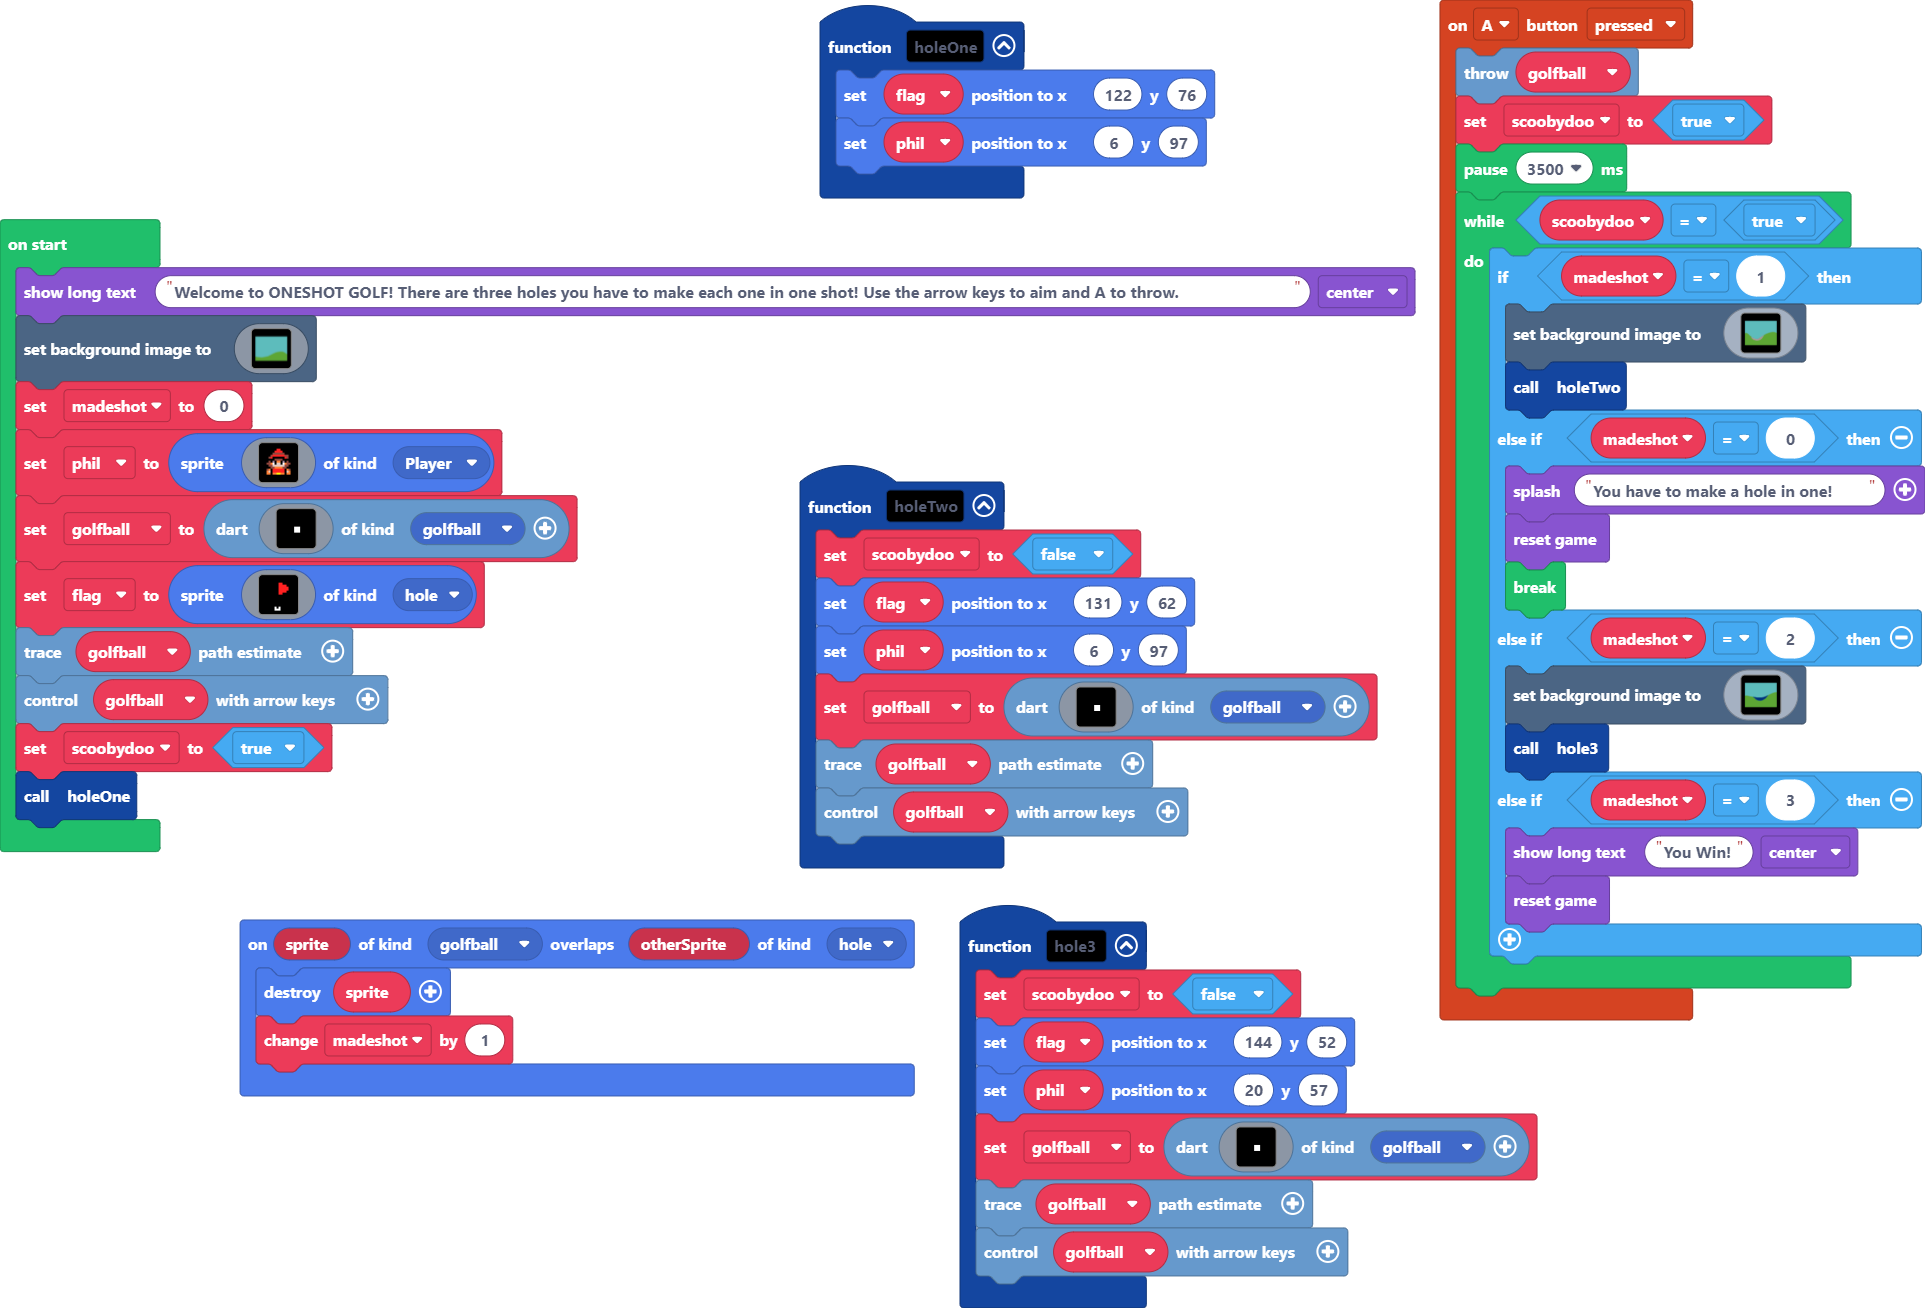
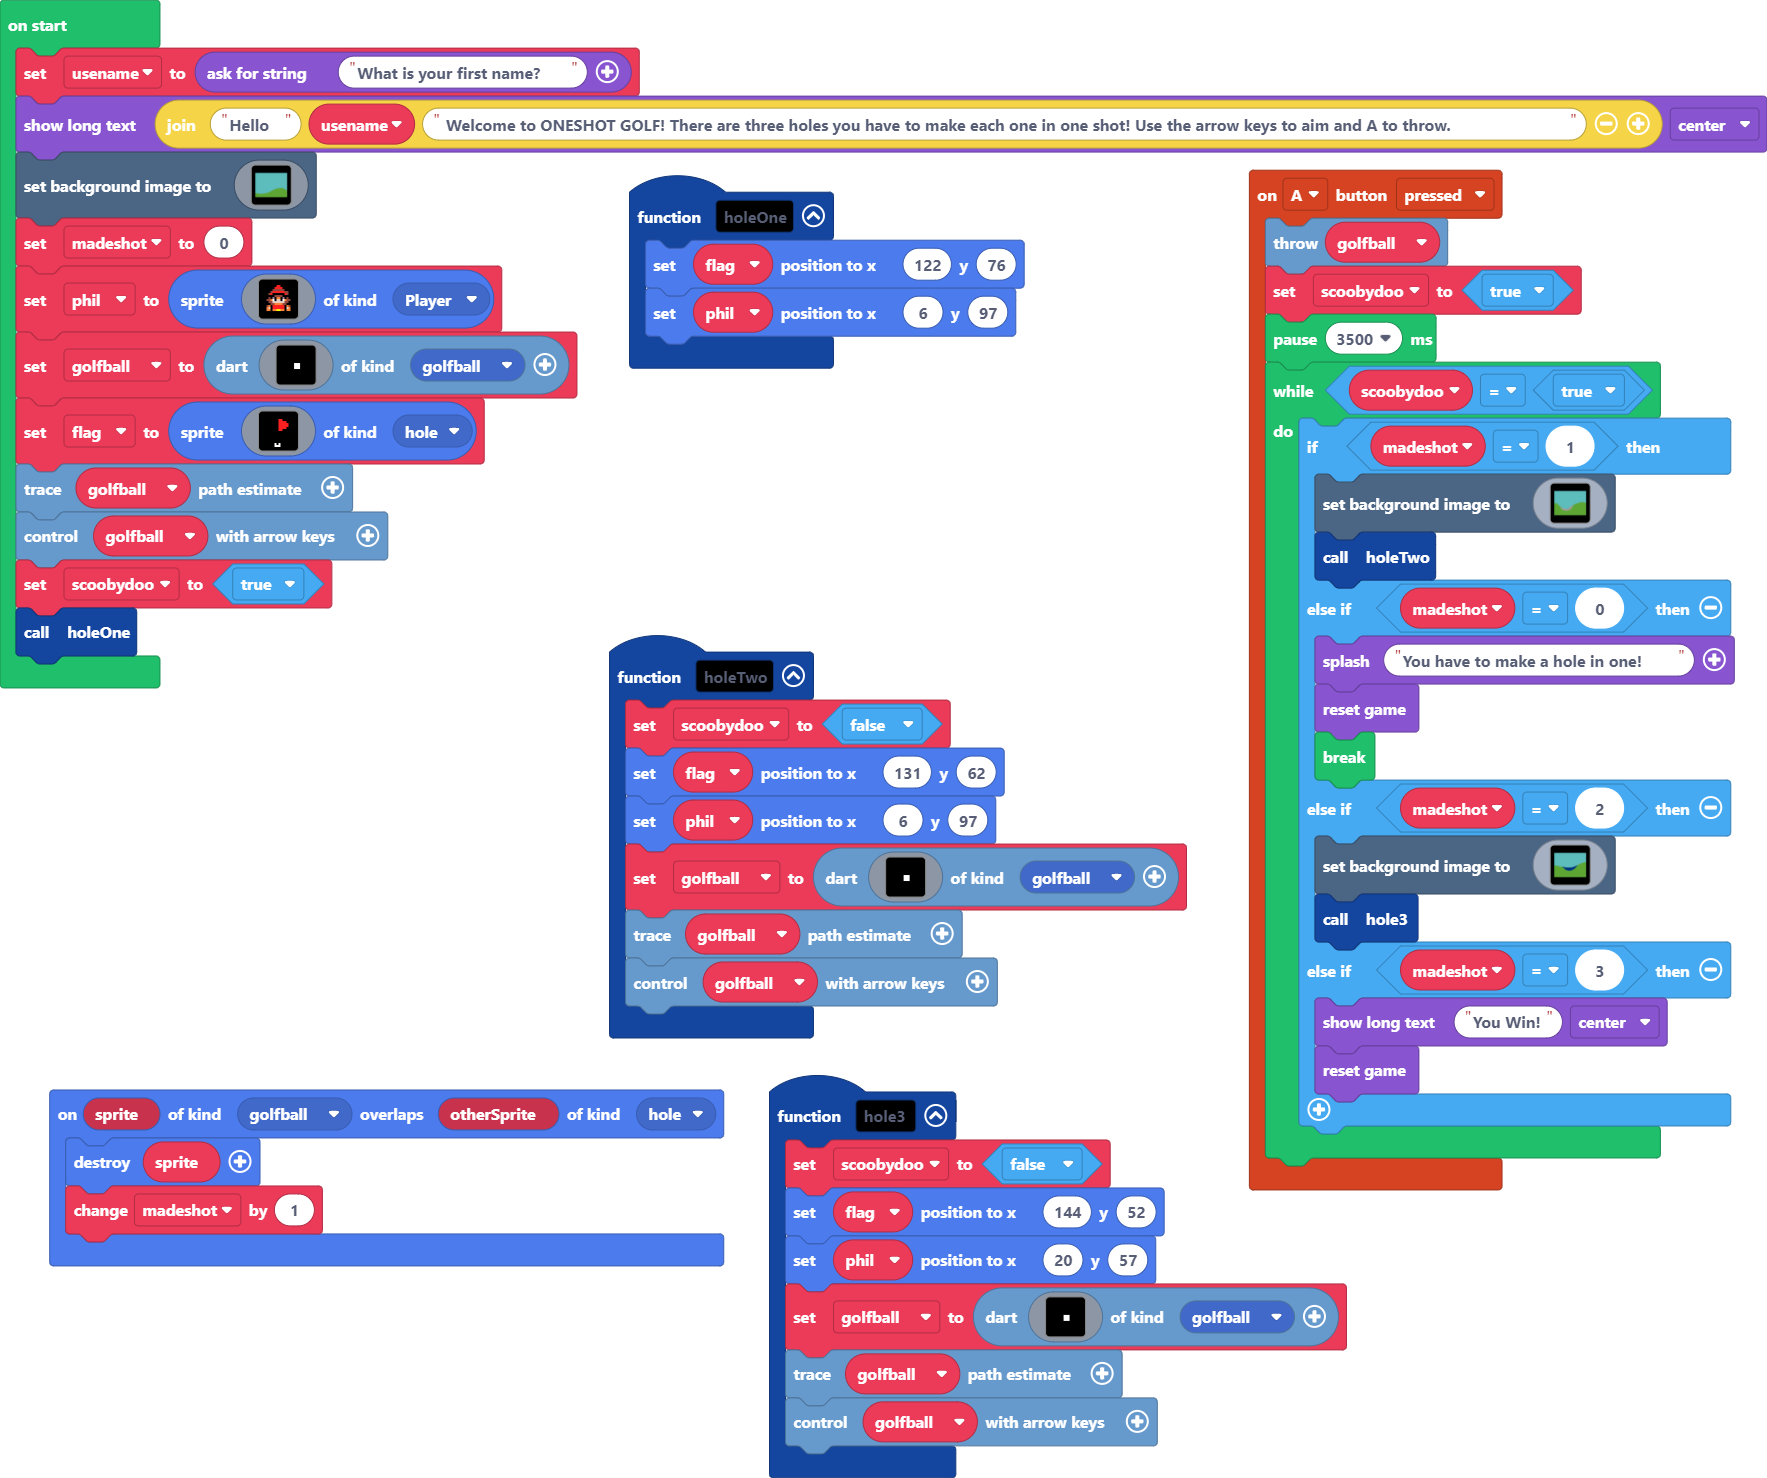
Update main.blocks, main.ts, tilemap.g.jres, tilemap.g.ts

diff --git a/tilemap.g.ts b/tilemap.g.ts
@@ -349,6 +349,25 @@ namespace myTiles {
 . . . . . . . . . . . . . . . . 
 . . . . . . . . . . . . . . . . 
 `, [myTiles.transparency16], TileScale.Sixteen);
+            case "level7":
+            case "level7":return tiles.createTilemap(hex`1000100000000000000000000000000000000000000000000000000000000000000000000000000000000000000000000000000000000000000000000000000000000000000000000000000000000000000000000000000000000000000000000000000000000000000000000000000000000000000000000000000000000000000000000000000000000000000000000000000000000000000000000000000000000000000000000000000000000000000000000000000000000000000000000000000000000000000000000000000000000000000000000000000000000000000000000000000000000000000000000000000000000000000000000000000000000000`, img`
+. . . . . . . . . . . . . . . . 
+. . . . . . . . . . . . . . . . 
+. . . . . . . . . . . . . . . . 
+. . . . . . . . . . . . . . . . 
+. . . . . . . . . . . . . . . . 
+. . . . . . . . . . . . . . . . 
+. . . . . . . . . . . . . . . . 
+. . . . . . . . . . . . . . . . 
+. . . . . . . . . . . . . . . . 
+. . . . . . . . . . . . . . . . 
+. . . . . . . . . . . . . . . . 
+. . . . . . . . . . . . . . . . 
+. . . . . . . . . . . . . . . . 
+. . . . . . . . . . . . . . . . 
+. . . . . . . . . . . . . . . . 
+. . . . . . . . . . . . . . . . 
+`, [myTiles.transparency16], TileScale.Sixteen);
         }
         return null;
     })

diff --git a/main.ts b/main.ts
@@ -328,7 +328,8 @@ let flag: Sprite = null
 let golfball: Dart = null
 let phil: Sprite = null
 let madeshot = 0
-game.showLongText("Welcome to ONESHOT GOLF! There are three holes you have to make each one in one shot! Use the arrow keys to aim and A to throw.", DialogLayout.Center)
+let usename = game.askForString("What is your first name?")
+game.showLongText("Hello " + usename + " Welcome to ONESHOT GOLF! There are three holes you have to make each one in one shot! Use the arrow keys to aim and A to throw.", DialogLayout.Center)
 scene.setBackgroundImage(img`
     9999999999999999999999999999999999999999999999999999999999999999999999999999999999999999999999999999999999999999999999999999999999999999999999999999999999999999
     9999999999999999999999999999999999999999999999999999999999999999999999999999999999999999999999999999999999999999999999999999999999999999999999999999999999999999
